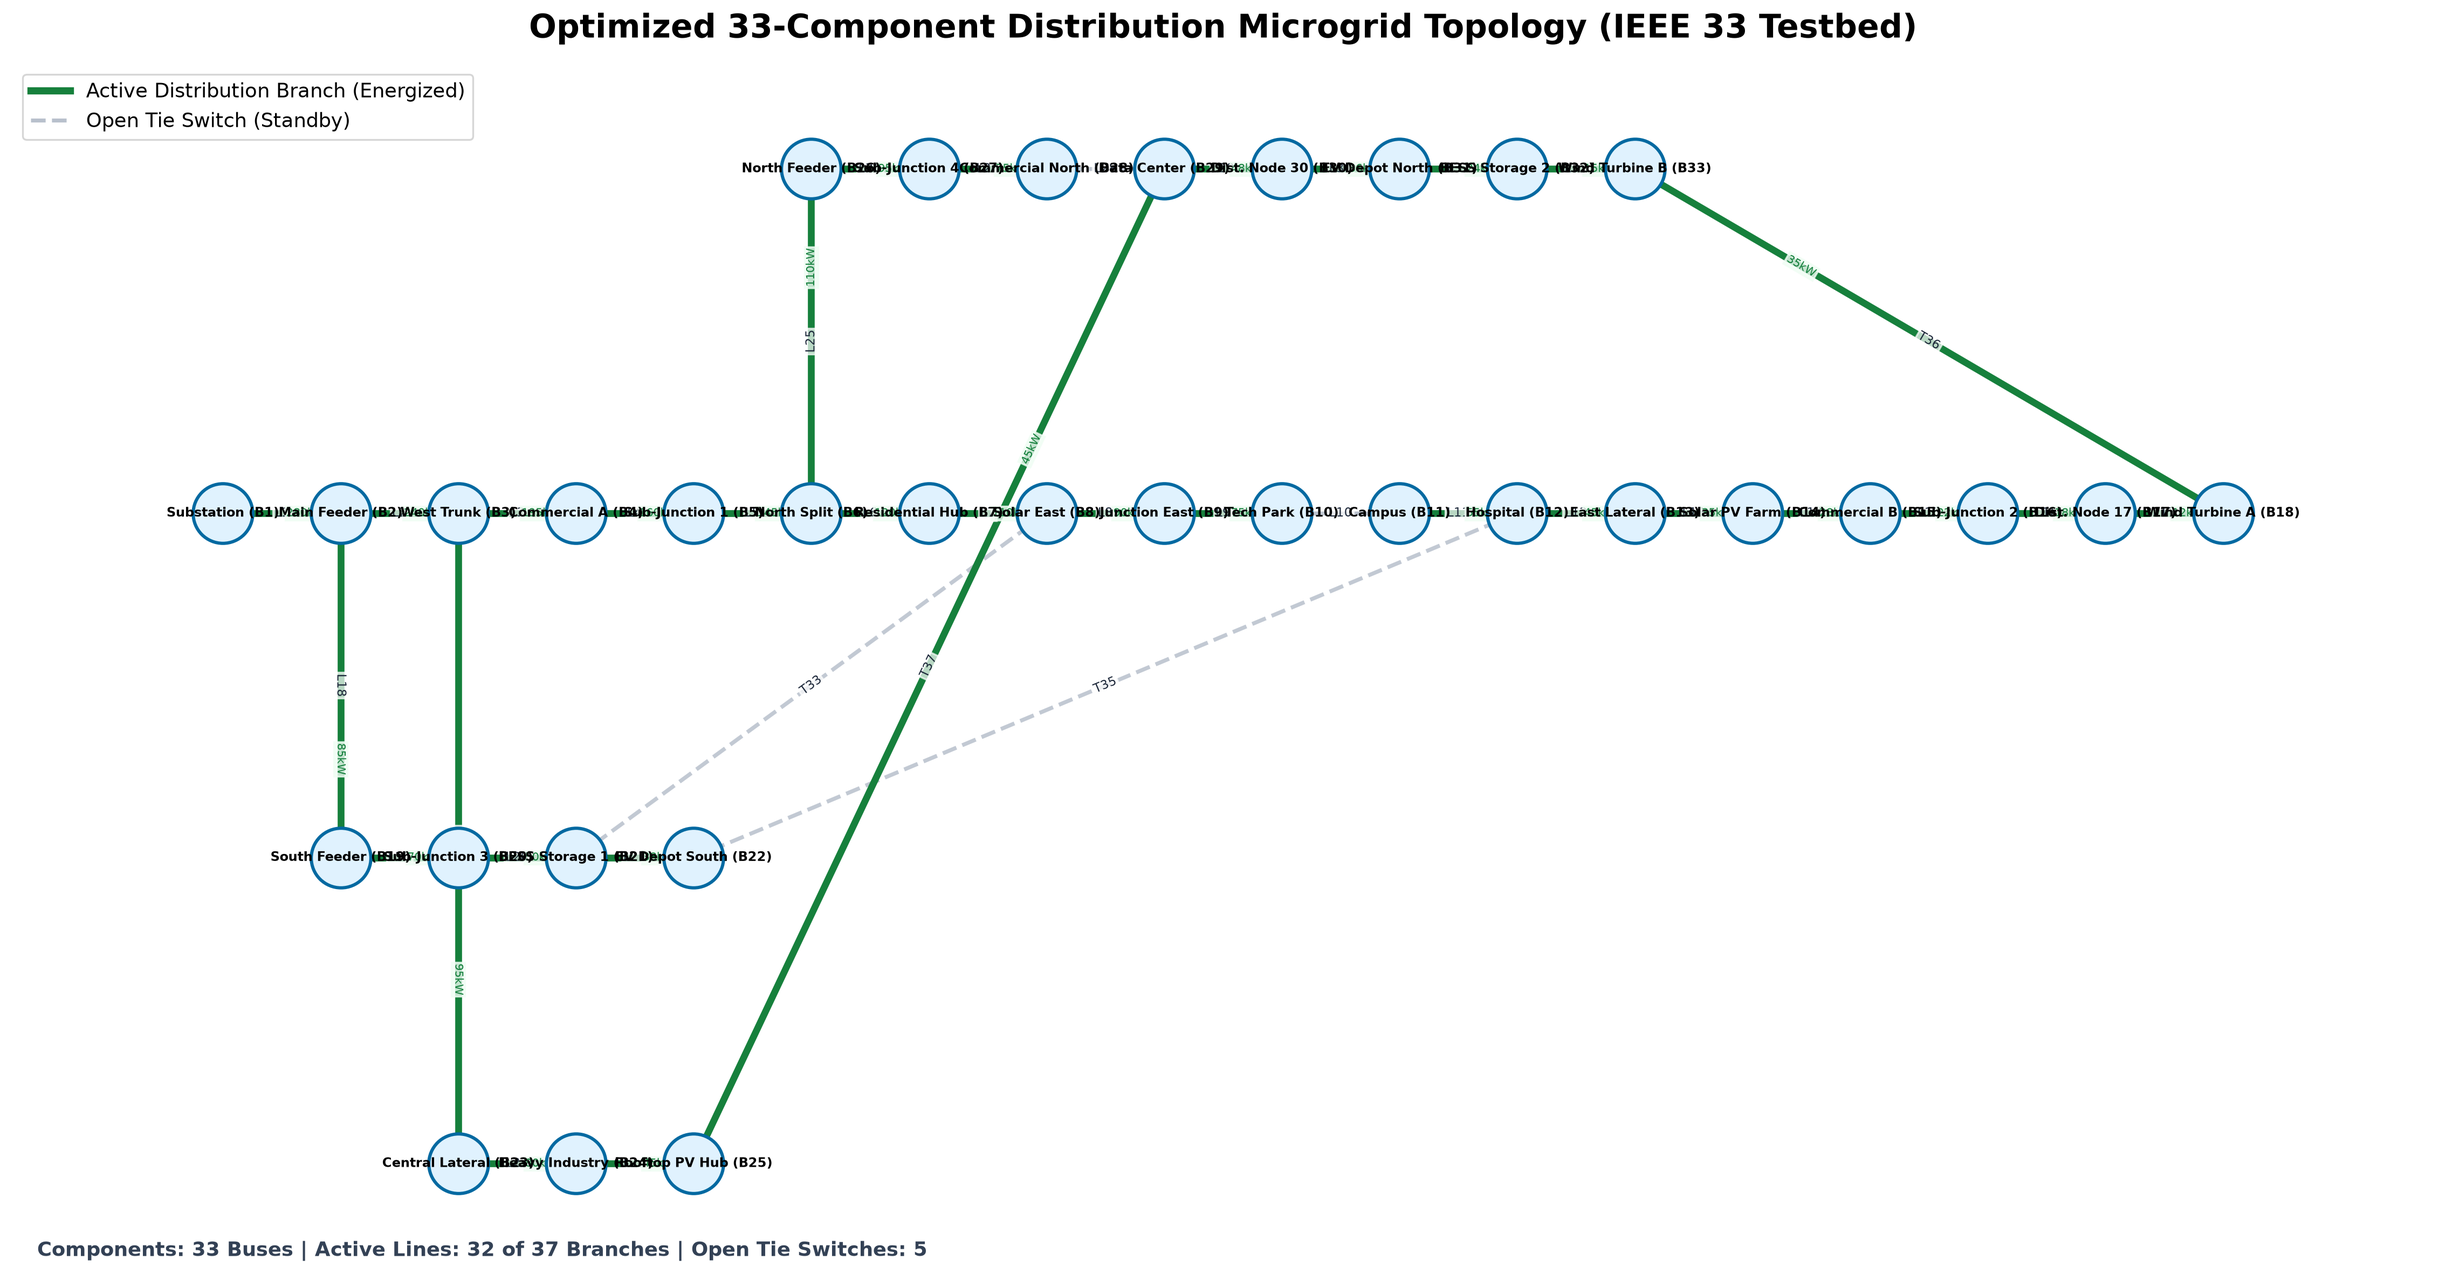
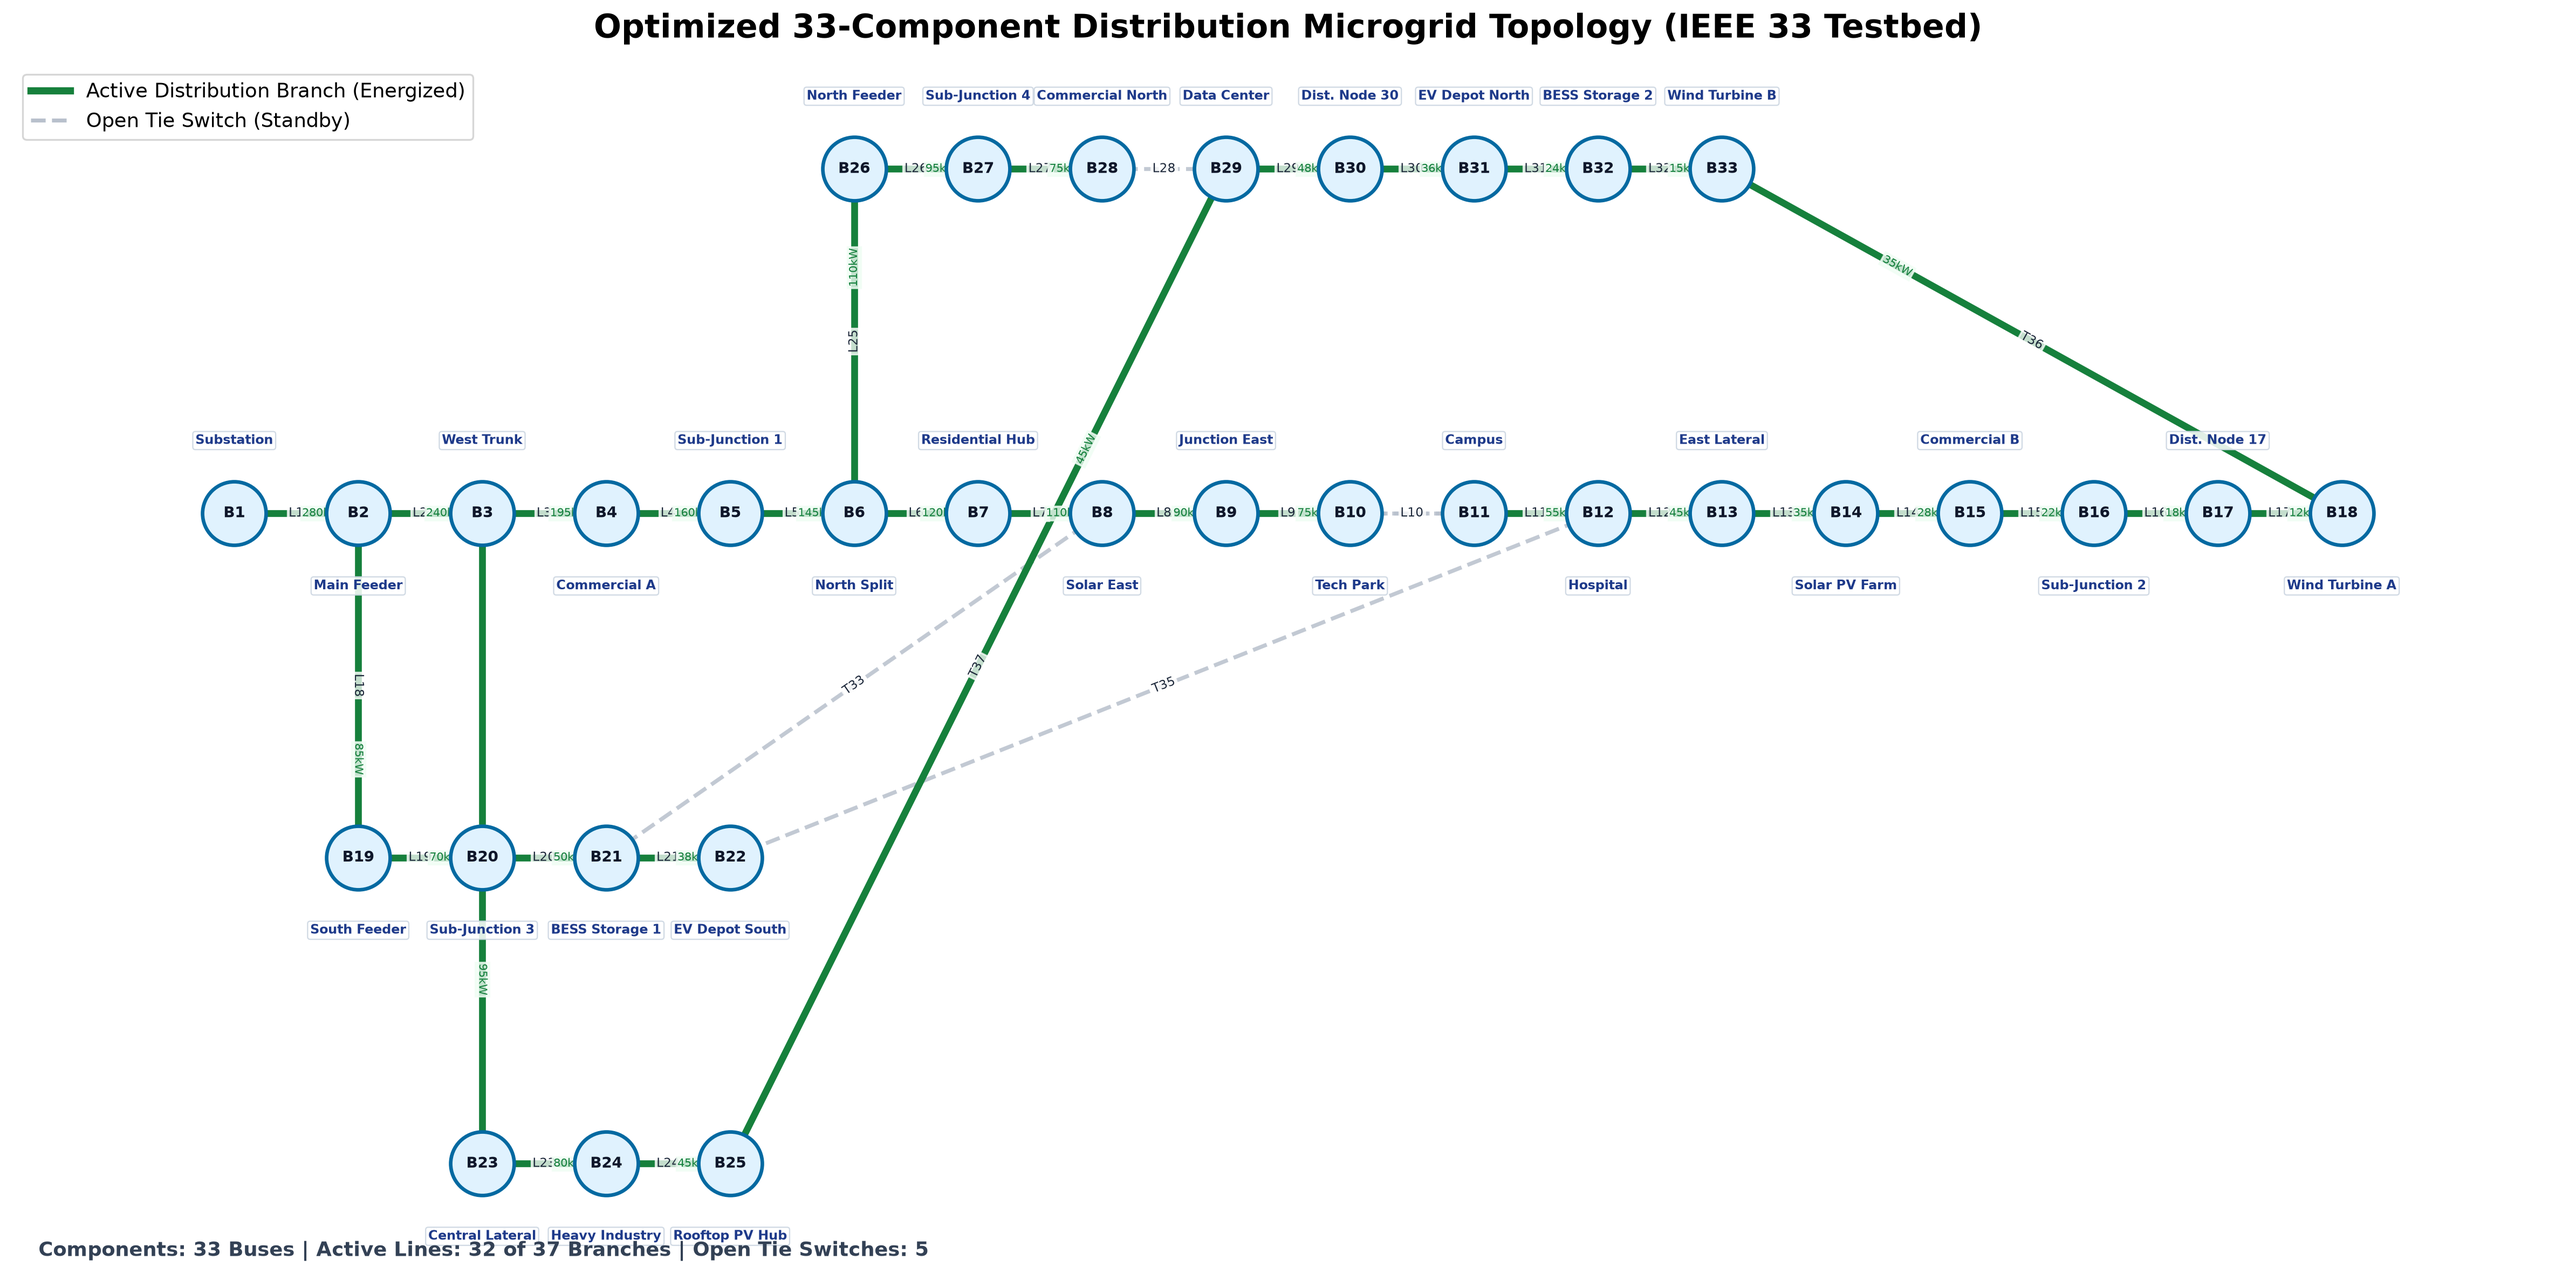
style: refine 33-component node labels and layout styling for clean readability

diff --git a/thermodynamic_grid_qubo/verification/microgrid_visualizer.py b/thermodynamic_grid_qubo/verification/microgrid_visualizer.py
@@ -146,7 +146,7 @@ class MicrogridVisualizer:
             if attrs["line_id"] not in selected_line_ids
         ]
 
-        fig, ax = plt.subplots(figsize=(19, 10))
+        fig, ax = plt.subplots(figsize=(20, 10))
         ax.set_title(title, fontsize=18, weight="bold", pad=15)
 
         # Draw unused candidate lines first so selected lines remain prominent
@@ -161,11 +161,39 @@ class MicrogridVisualizer:
         nx.draw_networkx_nodes(
             graph, nodes, ax=ax,
             node_color="#e0f2fe", edgecolors="#0369a1",
-            linewidths=1.8, node_size=1100,
+            linewidths=2.0, node_size=1250,
         )
+
+        # Bus IDs (B1..B33) drawn inside nodes
+        bus_ids = {
+            node: node.split("(")[-1].rstrip(")") if "(" in node else node
+            for node in nodes
+        }
         nx.draw_networkx_labels(
-            graph, nodes, ax=ax, font_size=7.2, font_weight="bold",
+            graph, nodes, labels=bus_ids, ax=ax,
+            font_size=8.5, font_weight="bold", font_color="#0f172a"
         )
+
+        # Node descriptors placed cleanly above/below nodes without collision
+        for node, (x, y) in nodes.items():
+            desc = node.split(" (")[0] if " (" in node else ""
+            if not desc:
+                continue
+            # Determine clean vertical offset based on branch position
+            if abs(y) < 0.5:
+                bus_num = int("".join(filter(str.isdigit, bus_ids[node])) or 0)
+                offset_y = 0.38 if (bus_num % 2 == 1) else -0.38
+            elif y > 0.5:
+                offset_y = 0.38
+            else:
+                offset_y = -0.38
+
+            ax.text(
+                x, y + offset_y, desc,
+                fontsize=7.2, ha="center", va="center",
+                fontweight="semibold", color="#1e3a8a",
+                bbox={"boxstyle": "round,pad=0.2", "facecolor": "white", "edgecolor": "#cbd5e1", "alpha": 0.88, "lw": 0.7}
+            )
 
         # Show line IDs on every candidate line
         edge_id_labels = {
@@ -175,7 +203,7 @@ class MicrogridVisualizer:
         nx.draw_networkx_edge_labels(
             graph, nodes, edge_labels=edge_id_labels, ax=ax,
             font_size=7, font_color="#1e293b", label_pos=0.5,
-            bbox={"alpha": 0.7, "color": "white", "pad": 0.8},
+            bbox={"alpha": 0.75, "color": "white", "pad": 0.8},
         )
 
         if show_line_metrics:

diff --git a/visualize_microgrid.py b/visualize_microgrid.py
@@ -141,7 +141,7 @@ def main():
         if attrs["line_id"] not in selected_line_ids
     ]
 
-    fig, ax = plt.subplots(figsize=(19, 10))
+    fig, ax = plt.subplots(figsize=(20, 10))
     ax.set_title("Optimized 33-Component Distribution Microgrid Topology (IEEE 33 Testbed)", fontsize=18, weight="bold", pad=15)
 
     # Draw unused candidate lines first so selected lines remain prominent
@@ -156,11 +156,40 @@ def main():
     nx.draw_networkx_nodes(
         graph, NODES, ax=ax,
         node_color="#e0f2fe", edgecolors="#0369a1",
-        linewidths=1.8, node_size=1100,
+        linewidths=2.0, node_size=1250,
     )
+
+    # Bus IDs (B1..B33) drawn inside nodes
+    bus_ids = {
+        node: node.split("(")[-1].rstrip(")") if "(" in node else node
+        for node in NODES
+    }
     nx.draw_networkx_labels(
-        graph, NODES, ax=ax, font_size=7.2, font_weight="bold",
+        graph, NODES, labels=bus_ids, ax=ax,
+        font_size=8.5, font_weight="bold", font_color="#0f172a"
     )
+
+    # Node descriptors placed cleanly above/below nodes without collision
+    for node, (x, y) in NODES.items():
+        desc = node.split(" (")[0] if " (" in node else ""
+        if not desc:
+            continue
+        # Determine clean vertical offset based on branch position
+        if abs(y) < 0.5:
+            # Main trunk: alternate above and below
+            bus_num = int("".join(filter(str.isdigit, bus_ids[node])) or 0)
+            offset_y = 0.38 if (bus_num % 2 == 1) else -0.38
+        elif y > 0.5:
+            offset_y = 0.38
+        else:
+            offset_y = -0.38
+
+        ax.text(
+            x, y + offset_y, desc,
+            fontsize=7.2, ha="center", va="center",
+            fontweight="semibold", color="#1e3a8a",
+            bbox={"boxstyle": "round,pad=0.2", "facecolor": "white", "edgecolor": "#cbd5e1", "alpha": 0.88, "lw": 0.7}
+        )
 
     # Show line IDs on every candidate line
     edge_id_labels = {
@@ -170,7 +199,7 @@ def main():
     nx.draw_networkx_edge_labels(
         graph, NODES, edge_labels=edge_id_labels, ax=ax,
         font_size=7, font_color="#1e293b", label_pos=0.5,
-        bbox={"alpha": 0.7, "color": "white", "pad": 0.8},
+        bbox={"alpha": 0.75, "color": "white", "pad": 0.8},
     )
 
     if SHOW_LINE_METRICS:
